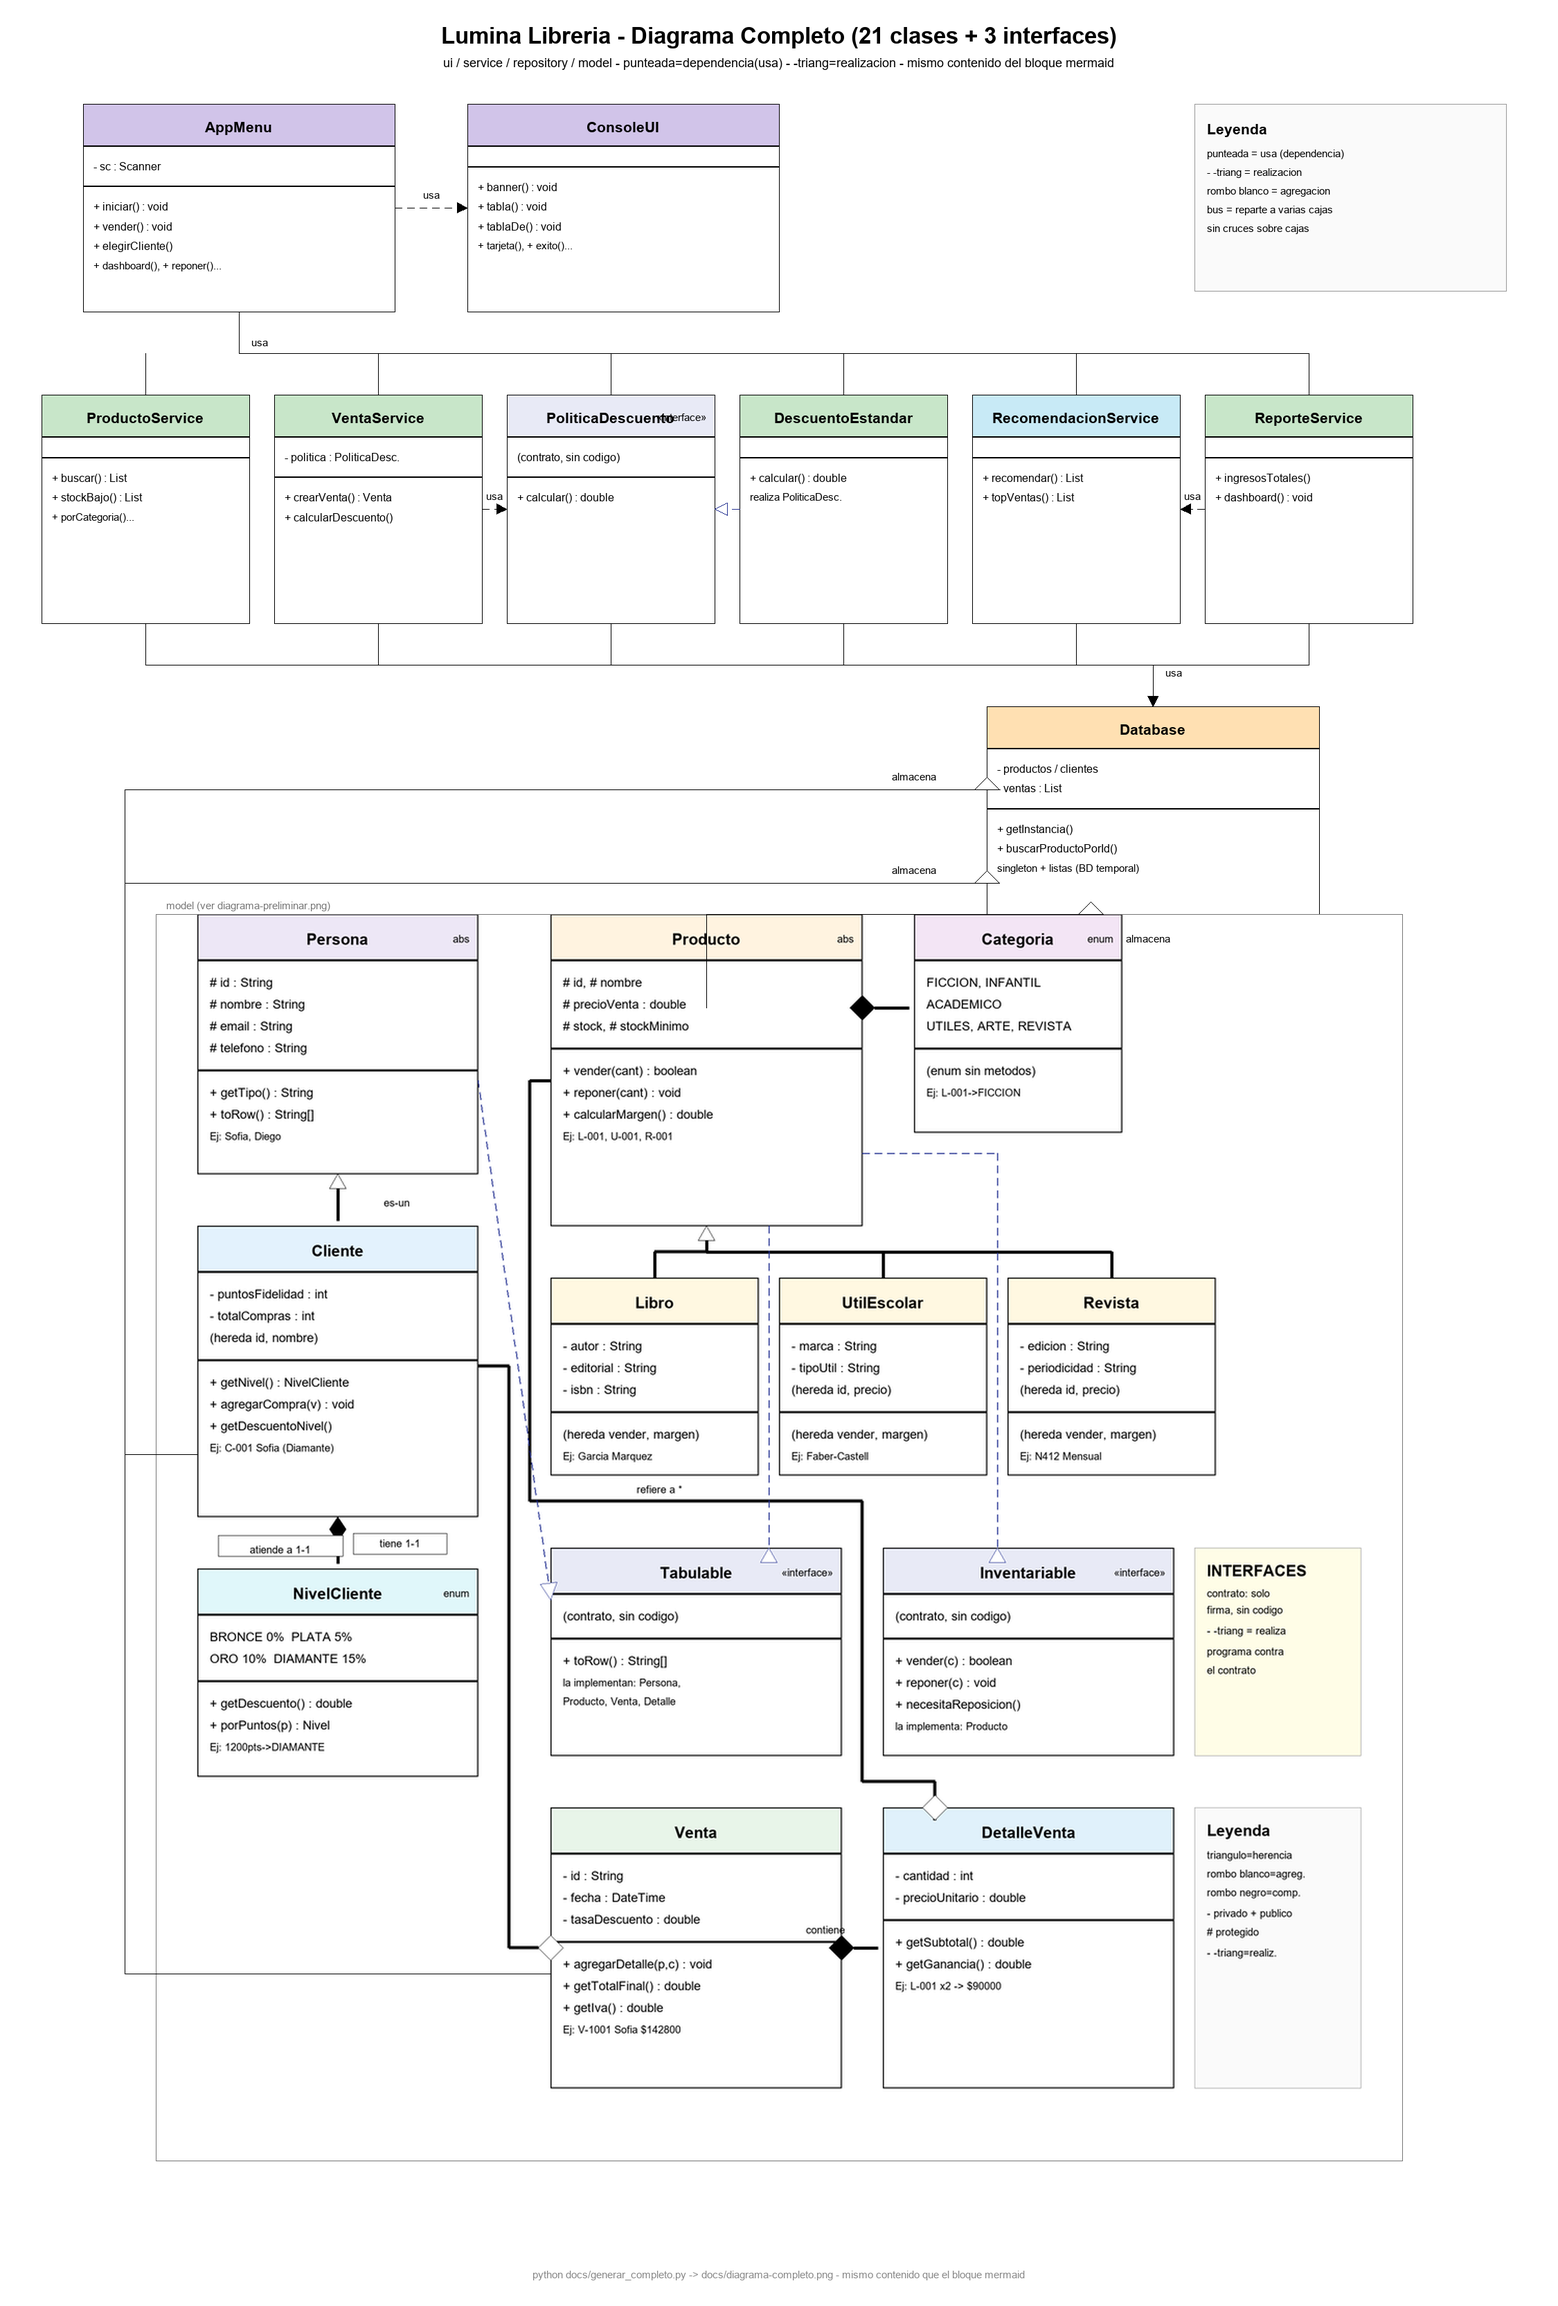
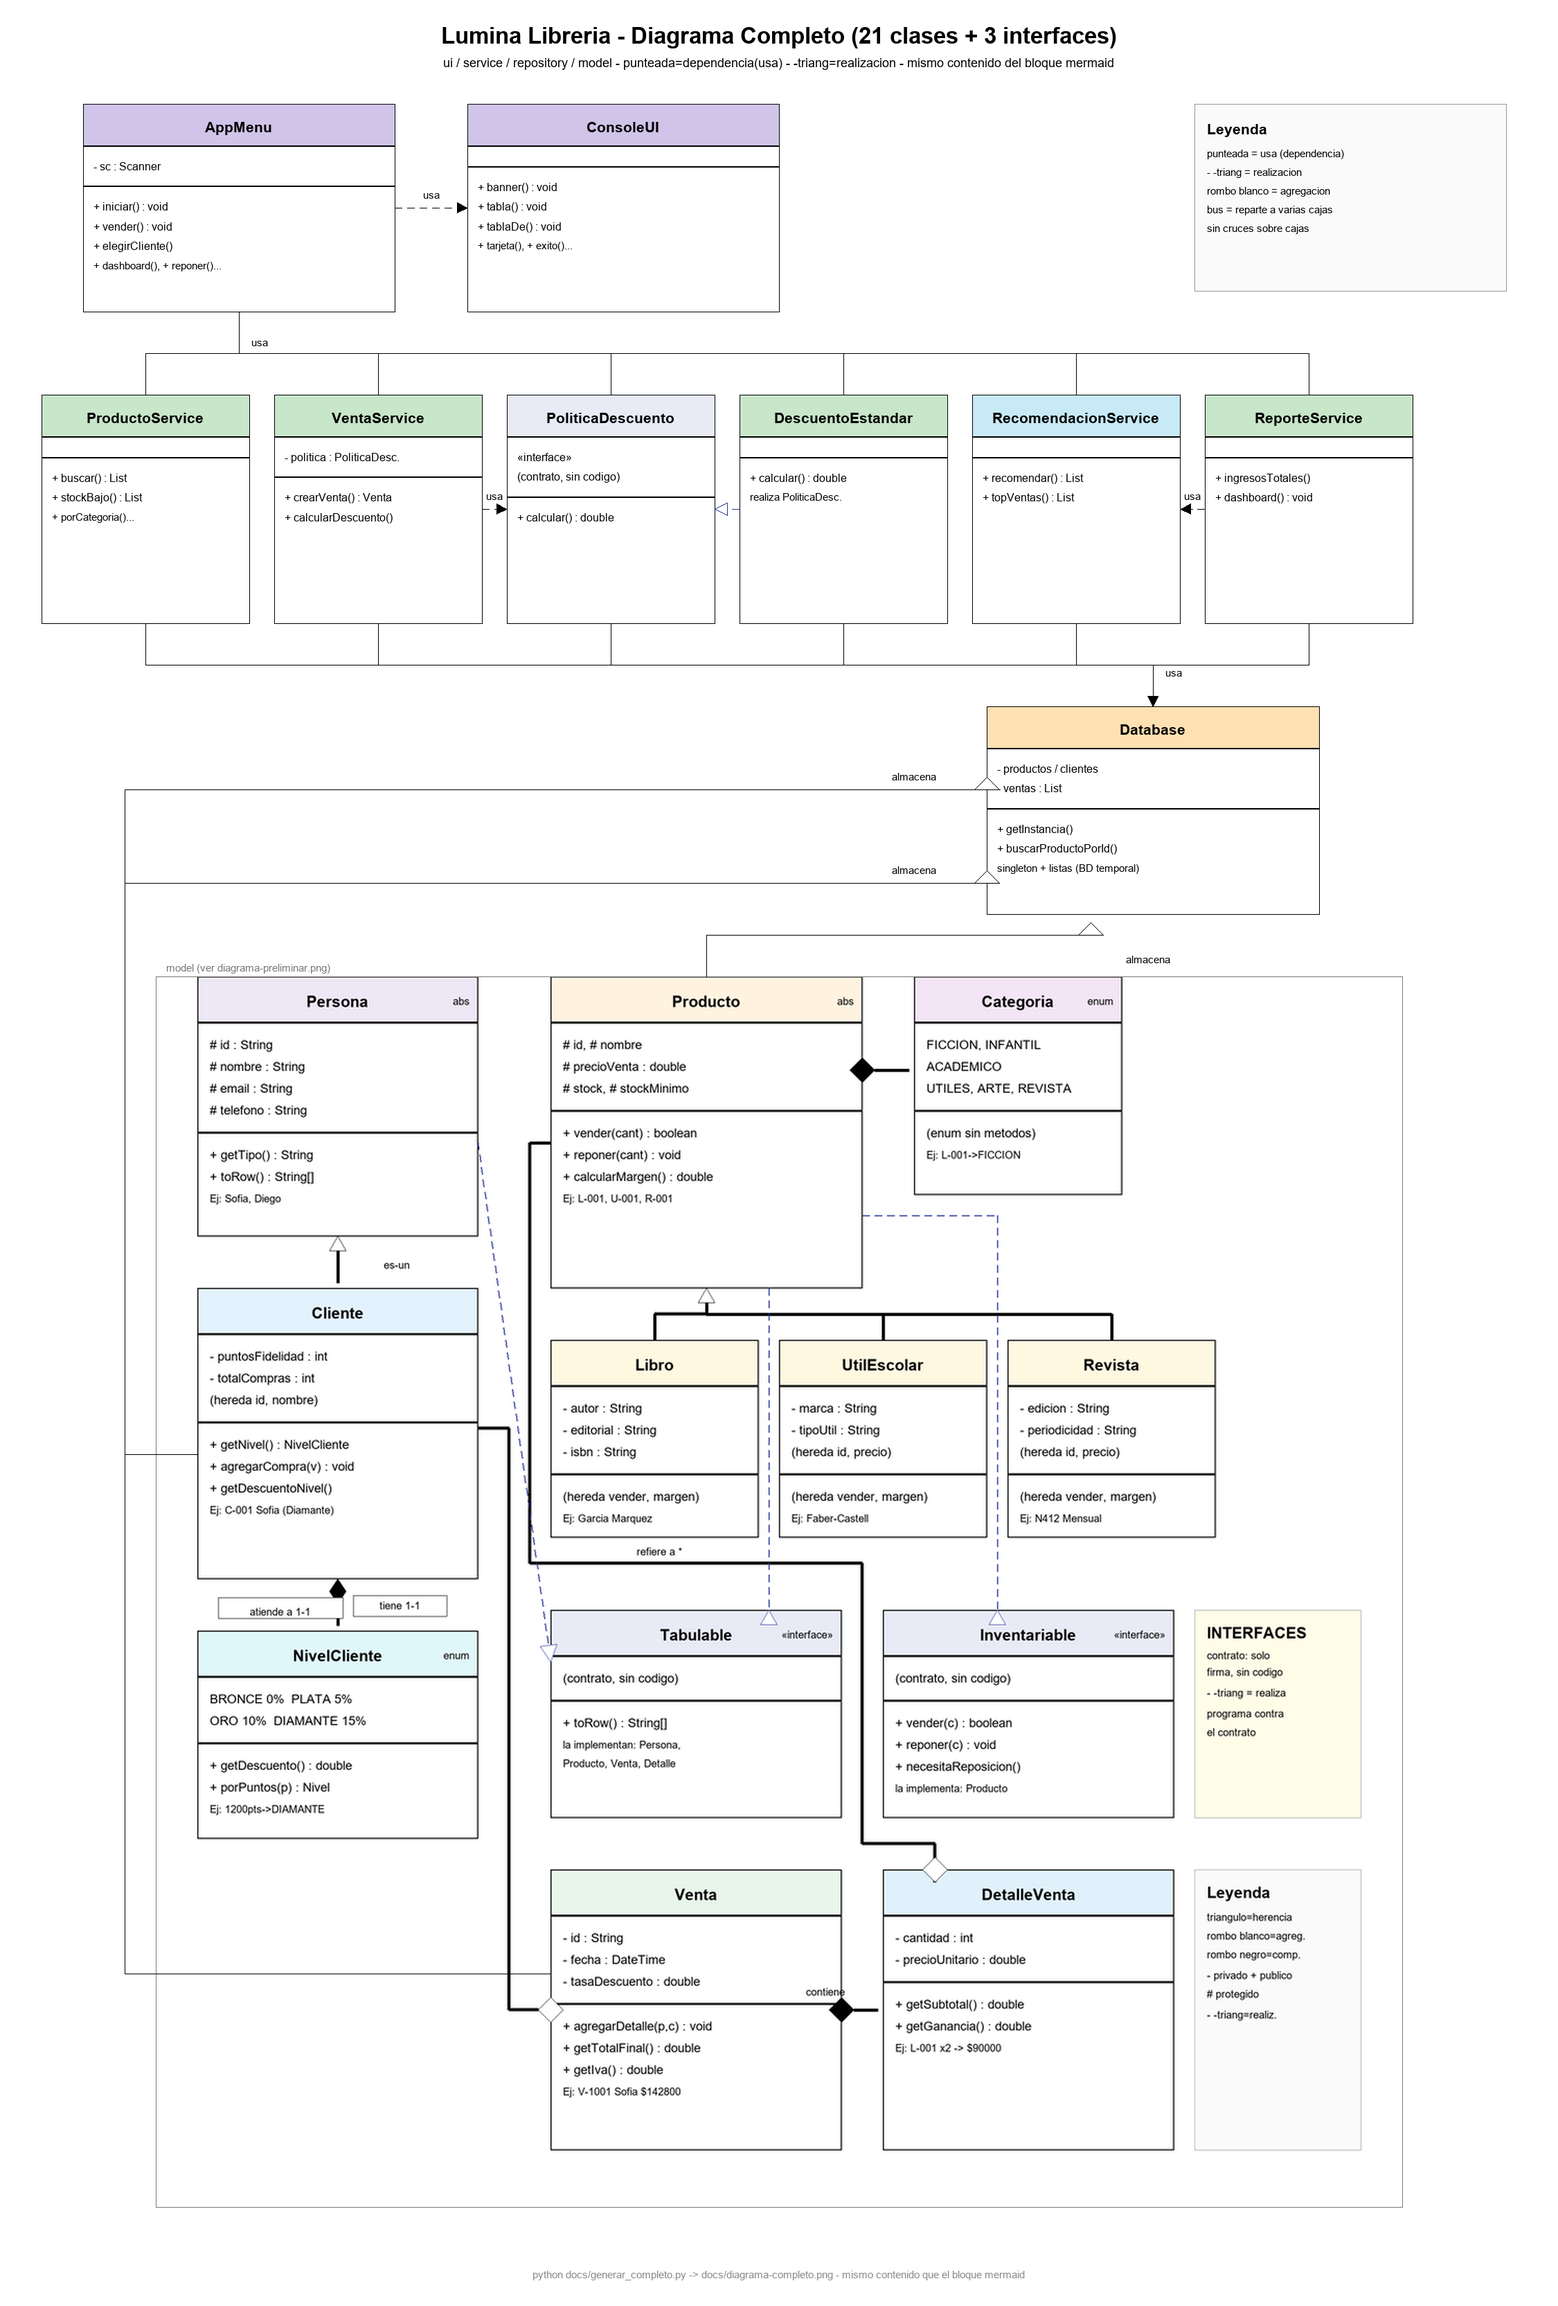
Restaura AppMenu (tablaDe + CSV), conecta ProductoService en diagrama completo

diff --git a/docs/generar_completo.py b/docs/generar_completo.py
@@ -132,16 +132,18 @@ def main() -> int:
          ["- politica : PoliticaDesc."],
          ["+ crearVenta() : Venta", "+ calcularDescuento()"])
     caja(SXS[2], SY, SW, SH, "PoliticaDescuento", "#E8EAF6",
-         ["(contrato, sin codigo)"],
-         ["+ calcular() : double"], sub="«interface»")
+         ["«interface»", "(contrato, sin codigo)"],
+         ["+ calcular() : double"])
     caja(SXS[3], SY, SW, SH, "DescuentoEstandar", "#C8E6C9", [],
          ["+ calcular() : double"], ["realiza PoliticaDesc."])
     caja(SXS[4], SY, SW, SH, "RecomendacionService", "#C8EAF6", [],
          ["+ recomendar() : List", "+ topVentas() : List"])
     caja(SXS[5], SY, SW, SH, "ReporteService", "#C8E6C9", [],
          ["+ ingresosTotales()", "+ dashboard() : void"])
-    # bus AppMenu -> servicios (y340, callejón vacío entre bandas)
-    LN([(230, 300), (230, 340), (1260, 340)])
+    # bus AppMenu -> servicios (y340, callejón vacío entre bandas).
+    # OJO: el bus cubre x140-1260 para alcanzar a ProductoService (izq. del todo).
+    LN([(230, 300), (230, 340)])
+    LN([(140, 340), (1260, 340)])
     for cx in (140, 364, 588, 812, 1036, 1260):
         LN([(cx, 340), (cx, 380)])
     T(250, 330, "usa", anchor="mm", font=F_SMALL)
@@ -172,23 +174,25 @@ def main() -> int:
 
     # ---------- modelo pegado (recorte verificado del preliminar) ----------
     pre = Image.open(prelim).convert("RGB")
-    pw, ph = pre.size  # 2400x2640 (esc=2): 1 unidad = 2 px
-    crop = pre.crop((0, 90 * 2, 1200 * 2, 1290 * 2)).resize((1200, 1200), Image.LANCZOS)
-    img.paste(crop.resize((int(1200 * esc), int(1200 * esc)), Image.LANCZOS),
-              (int(150 * esc), int(880 * esc)))
+    # recorte en px (el preliminar es esc=2): se excluye título y pie.
+    # El recorte cubre local y90-1275 (1185 uds) y se pega 1:1 en (150,940):
+    # punto global = (150 + lx, 850 + ly). Los "almacena" usan esa fórmula.
+    crop = pre.crop((0, 90 * 2, 1200 * 2, 1275 * 2)).resize((1200, 1185), Image.LANCZOS)
+    img.paste(crop.resize((int(1200 * esc), int(1185 * esc)), Image.LANCZOS),
+              (int(150 * esc), int(940 * esc)))
     # marco del bloque modelo
-    R(150, 880, 1200, 1200, outline="#777777", width=1)
-    T(160, 872, "model (ver diagrama-preliminar.png)", font=F_SMALL, fill="#777777")
+    R(150, 940, 1200, 1185, outline="#777777", width=1)
+    T(160, 932, "model (ver diagrama-preliminar.png)", font=F_SMALL, fill="#777777")
 
     # ---------- Database almacena -> modelo (3 rombos, sin pisar cajas) ----------
     # Cliente: entra por borde izquierdo (190,1400 global)
     ROMBO(950, 760)
     LN([(950, 760), (120, 760), (120, 1400), (190, 1400)])
     T(880, 748, "almacena", anchor="mm", font=F_SMALL)
-    # Producto: baja a su borde superior (680,970 global)
-    LN([(680, 970), (680, 880), (1050, 880)])
-    ROMBO(1050, 880)
-    T(1105, 904, "almacena", anchor="mm", font=F_SMALL)
+    # Producto: sube a su borde superior global (680,940)
+    LN([(680, 940), (680, 900), (1050, 900)])
+    ROMBO(1050, 900)
+    T(1105, 924, "almacena", anchor="mm", font=F_SMALL)
     # Venta: callejon izquierdo x=120 hasta la fila libre y=1900, entra por borde izq.
     ROMBO(950, 850)
     LN([(950, 850), (120, 850), (120, 1900), (530, 1900)])

diff --git a/docs/DIAGRAMA-CLASES.md b/docs/DIAGRAMA-CLASES.md
@@ -8,6 +8,11 @@
 
 ## Versión Mermaid (para GitHub / Notion)
 
+![Diagrama completo generado con Python](diagrama-completo.png)
+
+> Si el bloque `mermaid` te da error donde lo pegues, usa esta imagen
+> (se genera con `python docs/generar_completo.py`, mismo contenido, sin cruces sobre cajas).
+
 ```mermaid
 classDiagram
   class Persona {
